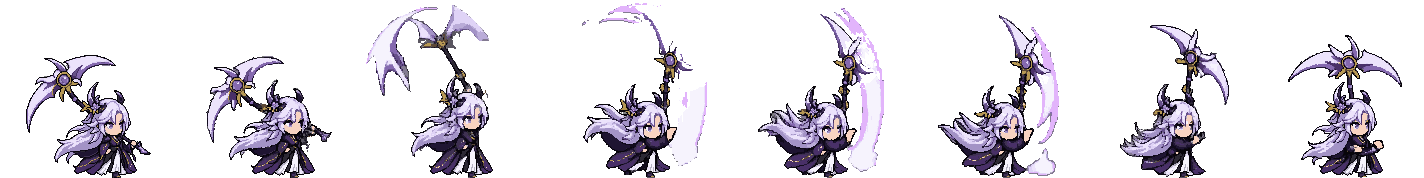
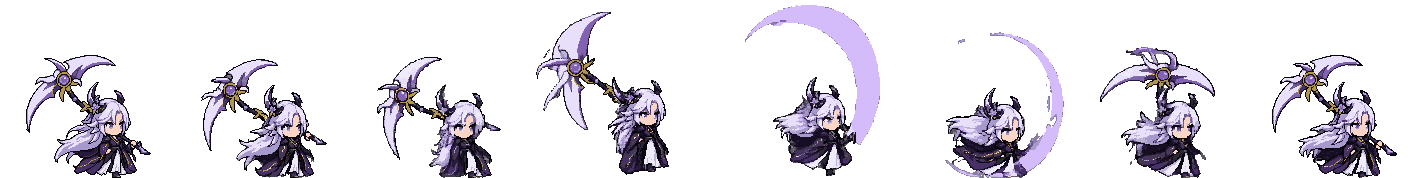
Liềm: đòn chém vung về phía trước, chém xa hơn, thêm 2 chiêu bắn liềm, ảnh liềm trang bị
- hero.nu: làm lại 4 đòn đánh vung về trước (chém chéo kéo lên, quét ngang thu
  về, móc liềm sát đất, bổ xuống trước mặt); lunge cho người nhún tới khi đánh.
- Vũ khí Liềm: tầm 30 → 44, vệt chém tím fx.liem vươn theo tầm cả khi nhân vật
  bằng hình (weapons.*.slash).
- Chiêu thêm theo vũ khí (weapons.*.more): Song Nguyệt Trảm (3 lưỡi liềm hình
  quạt, mở tầng 4), Tử Nguyệt Luân Hồi (10 lưỡi tứ phía, mở tầng 18).
- Biểu tượng Tử Nguyệt Liềm trong túi đồ: hình SpriteCook theo liềm mẫu.

Claude-Session: https://claude.ai/code/session_01BVnJmrZJyUXuAed3rQziFZ

diff --git a/src/render/draw-hero.js b/src/render/draw-hero.js
@@ -16,7 +16,7 @@ function anim(game, p, look, t) {
   p.heroSw = p.swingT;
   if (p.heroAtk0 != null) {
     const name = look.attacks[p.heroAtkN % look.attacks.length], i = Math.floor((t - p.heroAtk0) * look.fps[name]);
-    if (i >= 0 && i < look.anims[name].length) return [name, i];
+    if (i >= 0 && i < look.anims[name].length) return [name, i, i / look.anims[name].length];
     p.heroAtk0 = null;
   }
   const name = p.moving && !p.meditating && !p.riding ? 'walk' : 'idle';   // cưỡi thú: đứng yên trên lưng thú, không bước chân
@@ -28,7 +28,7 @@ export function drawHero(ctx, game, p, t, flash) {
   const look = heroLook(game), spr = look.sprite && game.data.art.sprites[look.sprite];
   const im = spr && spriteImage(spr);
   if (!im) return false;
-  const [name, i] = anim(game, p, look, t), list = look.anims[name] || look.anims.idle;
+  const [name, i, atk] = anim(game, p, look, t), list = look.anims[name] || look.anims.idle;
   const f = list[i % list.length];
   if (Math.abs(p.face.x) > 0.2) p.lookX = Math.sign(p.face.x);   // chỉ hai hướng: giữ hướng cũ khi đi thẳng lên xuống
   ctx.fillStyle = 'rgba(27,24,48,0.25)';   // bóng dưới chân
@@ -38,7 +38,8 @@ export function drawHero(ctx, game, p, t, flash) {
   const m = ctx.getTransform(), want = look.height / spr.h * m.d;
   const n = want >= 0.75 ? Math.max(1, Math.round(want)) : want;
   ctx.save();
-  ctx.setTransform(n * (p.lookX || 1), 0, 0, n, Math.round(m.a * p.x + m.e), Math.round(m.d * p.y + m.f));
+  const dx = atk != null && look.lunge ? (p.lookX || 1) * look.lunge * Math.sin(Math.PI * atk) : 0;   // đòn đánh: nhún người tới trước rồi lùi về
+  ctx.setTransform(n * (p.lookX || 1), 0, 0, n, Math.round(m.a * (p.x + dx) + m.e), Math.round(m.d * p.y + m.f));
   ctx.imageSmoothingEnabled = n < 0.75;
   drawHitFrame(ctx, spr, im, f, flash ? Math.min(1, p.flash / 0.12) : 0);
   ctx.restore();

diff --git a/src/game/skills.js b/src/game/skills.js
@@ -95,16 +95,18 @@ function segDist(pt, x1, y1, x2, y2) {
   return dist(pt, { x: x1 + dx * t, y: y1 + dy * t });
 }
 
+// Chiêu vũ khí: chiêu chính + chiêu thêm (weapons.*.more: [id, tổng tầng mở])
+export function weaponSkills(w) {
+  return [...(w.skill ? [[w.skill, 0]] : []), ...(w.more || [])];
+}
+
 // Chiêu đã mở: chiêu vũ khí + các chiêu hệ đủ tầng tu luyện (elements._unlock)
 export function unlockedSkills(game) {
   const { save, data } = game, out = [];
-  const w = data.weapons[weaponId(save, data)];
-  if (w.skill) out.push(w.skill);
+  const w = data.weapons[weaponId(save, data)], n = totalLayer(save, data.realms);
+  for (const [id, at] of weaponSkills(w)) if (n >= at) out.push(id);
   const el = save.element ? data.elements[save.element] : null;
-  if (el) {
-    const n = totalLayer(save, data.realms);
-    el.skills.forEach((id, i) => { if (n >= data.elements._unlock[i]) out.push(id); });
-  }
+  if (el) el.skills.forEach((id, i) => { if (n >= data.elements._unlock[i]) out.push(id); });
   return out;
 }
 
@@ -113,7 +115,7 @@ export function skillSlots(game) {
   const open = unlockedSkills(game), lo = game.save.loadout;
   if (lo) {
     // Đổi loại vũ khí: ô đang mang chiêu vũ khí cũ tự thay bằng chiêu của vũ khí mới
-    const wSkills = Object.values(game.data.weapons).map(w => w.skill).filter(Boolean);
+    const wSkills = Object.values(game.data.weapons).flatMap(w => weaponSkills(w).map(([id]) => id));
     const cur = game.data.weapons[weaponId(game.save, game.data)].skill;
     return lo.map(id => (open.includes(id) ? id : wSkills.includes(id) && cur && !lo.includes(cur) ? cur : null));
   }

diff --git a/src/ui/skills-panel.js b/src/ui/skills-panel.js
@@ -1,5 +1,5 @@
 // Bảng Chiêu: tab Chiêu (3 ô chiêu đang mang, chiêu đã mở và chưa mở) và tab Công pháp (3 cuốn đang mang, cấp, kinh nghiệm).
-import { unlockedSkills, skillSlots, setSlot } from '../game/skills.js';
+import { unlockedSkills, skillSlots, setSlot, weaponSkills } from '../game/skills.js';
 import { weaponId } from '../game/stats.js';
 import { setTechSlot, techNeed } from '../game/techniques.js';
 import { statText } from '../game/items.js';
@@ -74,7 +74,7 @@ export function createSkillsPanel(game) {
     const list = $('skills-list'); list.innerHTML = '';
     const all = [];
     const w = data.weapons[weaponId(game.save, data)];
-    if (w.skill) all.push({ id: w.skill, from: w.name });
+    for (const [id, at] of weaponSkills(w)) all.push({ id, from: w.name, at });
     const e = game.save.element ? data.elements[game.save.element] : null;
     if (e) e.skills.forEach((id, i) => all.push({ id, from: `Hệ ${e.name}`, at: data.elements._unlock[i] }));
     for (const { id, from, at } of all) {

diff --git a/src/game/skill-fx.js b/src/game/skill-fx.js
@@ -14,8 +14,8 @@ export function burstFx(game, kind, x, y, r, ang = 0) {
   } else if (kind === 'bolt') {
     addFx(game, { type: 'sprite', id: 'fx.bolt', x, y, s: Math.max(0.6, r / 30), life: 0.5 });
     game.flashT = Math.max(game.flashT || 0, 0.06);
-  } else if (kind === 'slash' || kind === 'liem') {   // liềm trúng: vệt chém như kiếm khí
-    addFx(game, { type: 'sprite', id: 'fx.slash', x, y: y - 3, s: Math.max(0.5, r / 19), rot: ang, life: 0.25 });
+  } else if (kind === 'slash' || kind === 'liem') {   // liềm trúng: vệt chém tím
+    addFx(game, { type: 'sprite', id: kind === 'liem' ? 'fx.liem' : 'fx.slash', x, y: y - 3, s: Math.max(0.5, r / 19), rot: ang, life: 0.25 });
   } else if (kind === 'vine') {
     addFx(game, { type: 'sprite', id: 'fx.vine', x, y: y + 2, s: Math.max(0.4, r / 22), life: 0.75 });
   } else if (kind === 'rock') {   // vùng rộng: gai đá trồi thành vòng, không che người đứng giữa

diff --git a/src/game/player.js b/src/game/player.js
@@ -83,8 +83,8 @@ function swing(game) {
   }
   const ang = Math.atan2(p.face.y, p.face.x), half = w.arc / 2 * Math.PI / 180;
   const H = game.data.heroes, look = H.list[game.save.look] || H.list[H.default];
-  // Nhân vật bằng hình đã có vệt chém vẽ sẵn trong khung đánh (quét từ dưới lên qua đầu): không chồng thêm vệt khác
-  if (!look.sprite) addFx(game, { type: 'sprite', id: 'fx.slash', x: p.x, y: p.y - 3, s: w.range / 19, rot: ang, life: 0.24 });
+  // Nhân vật bằng hình đã có vệt chém vẽ sẵn trong khung đánh: không chồng thêm vệt, trừ vũ khí có vệt riêng (w.slash, vd. liềm vươn xa)
+  if (!look.sprite || w.slash) addFx(game, { type: 'sprite', id: w.slash || 'fx.slash', x: p.x, y: p.y - 3, s: w.range / 19, rot: ang, life: 0.24 });
   for (const m of game.mobs) {
     if (m.dead) continue;
     const d = dist(p, m);

diff --git a/tools/art/build.py b/tools/art/build.py
@@ -8,13 +8,13 @@ import numpy as np
 sys.path.insert(0, str(Path(__file__).parent))
 from px import Canvas, hx, save, write_manifest, blob_mask, BAYER4, clean  # noqa: E402
 from chars import CHARS, draw  # noqa: E402
-from fx import slash_frames, spark_frames, puff_frames  # noqa: E402
+from fx import slash_frames, spark_frames, puff_frames, MOON  # noqa: E402
 from fx_skill import fire_frames, ice_frames, bolt_frames  # noqa: E402
 from fx_nature import vine_frames, rock_frames, wind_frames  # noqa: E402
 from fx_aura import heal_frames, shield_frames, buff_frames  # noqa: E402
 from fx_proj import proj_sprites  # noqa: E402
 from icons import icon_sprites  # noqa: E402
-from heroes import sheet, foot, fit  # noqa: E402
+from heroes import sheet, foot, fit, picture  # noqa: E402
 import world as W  # noqa: E402
 import dungeon as DG  # noqa: E402
 from ground import ground_frames  # noqa: E402
@@ -34,8 +34,8 @@ for sid, spec in CHARS.items():
 _SMOKE = [(0x7f, 0x80, 0x80), (0x7e, 0x80, 0x80)]   # khói xám SpriteCook lẫn vào quầng
 _f = sheet('nam-dung') + sheet('nam-di', drop=_SMOKE) + sheet('nam-chem') + sheet('nam-bo', drop=_SMOKE) + sheet('nam-hat', drop=_SMOKE) + sheet('nam-ngang')
 save('hero.nam', _f, foot(_f[0]), 'nam kiếm tu (SpriteCook): đứng, đi, chém vòng, bổ dọc, hất lên, quét ngang; mỗi động tác 8 khung')
-_f = fit(sheet('liem-dung') + sheet('liem-di') + sheet('liem-chem') + sheet('liem-ngang') + sheet('liem-bo') + sheet('liem-hat'))
-save('hero.nu', _f, foot(_f[0]), 'nữ liềm tím tóc oải hương (SpriteCook): đứng, đi, chém vòng, quét ngang, bổ dọc, hất lên; mỗi động tác 8 khung')
+_f = fit(sheet('liem-dung') + sheet('liem-di') + sheet('liem-cheo') + sheet('liem-ngang') + sheet('liem-moc') + sheet('liem-bo'))
+save('hero.nu', _f, foot(_f[0]), 'nữ liềm tím tóc oải hương (SpriteCook): đứng, đi, chém chéo kéo lên, quét ngang thu về, móc liềm sát đất, bổ xuống trước mặt; mỗi động tác 8 khung, mọi đòn vung về phía trước')
 
 # ---------------------------------------------------------------- nền đảo 16×16 (tools/art/world.py, vẽ ở src/world/draw-ground.js)
 save('tile.grass', [W.grass(s) for s in range(4)], (0, 0), 'cỏ, 4 biến thể ghép liền')
@@ -157,6 +157,7 @@ save('item.kiem', [sword()], (2, 10), 'kiếm bay cạnh nhân vật, chĩa lên
 
 # ---------------------------------------------------------------- hiệu ứng nhỏ (pixel + quầng sáng, docs/02)
 save('fx.slash', slash_frames(), (18, 24), 'vệt chém đánh thường, 7 khung; tâm cung tại neo')
+save('fx.liem', slash_frames(MOON), (18, 24), 'vệt liềm tím vươn xa trước mặt (vũ khí Liềm, chiêu liềm trúng), 7 khung; tâm cung tại neo')
 save('fx.spark', spark_frames(), (5, 5), 'tia lửa khi trúng, 4 khung')
 save('fx.puff', puff_frames(), (8, 8), 'khói tan khi quái chết, 5 khung')
 save('fx.fire', fire_frames(), (12, 31), 'ngọn lửa lặp 8 khung (chiêu hệ hỏa); neo ở chân lửa')
@@ -180,6 +181,8 @@ for _id, _c in icon_sprites().items():
 _items, _gear = (json.loads((Path(__file__).resolve().parents[2] / 'data' / f).read_text(encoding='utf-8')) for f in ('items.json', 'gear.json'))
 for _id, _b in _items['bases'].items():
     save('gear.' + _id, [gear_icon(_b, _gear['sets'])], (8, 8), _b['name'])
+# món có hình vẽ sẵn (SpriteCook theo mẫu chủ dự án) thay biểu tượng vẽ code; túi đồ hiện mọi biểu tượng ở ô 32 px
+save('gear.tu-nguyet-liem', [picture('liem-vu-khi', 64, hx('#1b1830'))], (32, 32), 'Tử Nguyệt Liềm (SpriteCook theo liềm mẫu)')
 
 # ---------------------------------------------------------------- chữ số pixel 3×5 (+viền) cho số sát thương
 DIG = ['111101101101111', '010110010010111', '111001111100111', '111001111001111', '101101111001001',

diff --git a/tools/art/heroes.py b/tools/art/heroes.py
@@ -140,3 +140,23 @@ def fit(frames):
         cv.a[:] = big[k, ys[0]:y1, xs[0]:xs[-1] + 1]
         out.append(cv)
     return out
+
+
+def picture(name, size, ink):
+    """Hình món đồ vẽ sẵn (tools/art/nguon/<name>.png, nền trong suốt) → Canvas size×size: cắt sát, đặt giữa ô vuông,
+    thu nhỏ rồi đưa mỗi điểm về màu gần nhất của bảng màu gốc, alpha chỉ 0/255, viền mực ink 1 px như hình vẽ code."""
+    im = Image.open(SRC / f'{name}.png').convert('RGBA')
+    im = im.crop(im.getbbox())
+    s = max(im.size)
+    sq = Image.new('RGBA', (s, s))
+    sq.paste(im, ((s - im.width) // 2, (s - im.height) // 2))
+    src = np.array(sq)
+    pal = np.unique(src[src[..., 3] > 127][:, :3], axis=0).astype(int)
+    small = np.array(sq.resize((size - 2, size - 2), Image.BOX)).astype(int)
+    cv = Canvas(size, size)
+    solid = small[..., 3] > 110
+    for y, x in zip(*np.where(solid)):
+        rgb = small[y, x, :3] * 255 // max(small[y, x, 3], 1)   # bỏ nhân alpha của BOX ở mép
+        cv.a[y + 1, x + 1, :3] = pal[np.abs(pal - rgb).sum(axis=1).argmin()]
+        cv.a[y + 1, x + 1, 3] = 255
+    return cv.outline(ink)

diff --git a/tools/art/fx.py b/tools/art/fx.py
@@ -48,10 +48,13 @@ def spark0():
 KEYS = [(-100, -55, 4, 0.0), (-100, 25, 7, 0.0), (-85, 90, 9, 0.0), (-20, 100, 7, 0.3), (30, 105, 5, 0.55), (70, 110, 3, 0.8)]
 
 
-def slash_frames():
+MOON = [hx('#6a4a9a'), hx('#a88ad8'), hx('#dccbf6'), hx('#ffffff')]  # vệt liềm tím (vũ khí Liềm)
+
+
+def slash_frames(tones=TONES):
     out = [spark0()]
     for a0, a1, wmax, dis in KEYS:
-        t = TONES if dis < 0.5 else [TONES[0], TONES[0], TONES[1], TONES[2]]
+        t = tones if dis < 0.5 else [tones[0], tones[0], tones[1], tones[2]]
         out.append(slash(a0, a1, wmax, t, dis))
     return out
 
